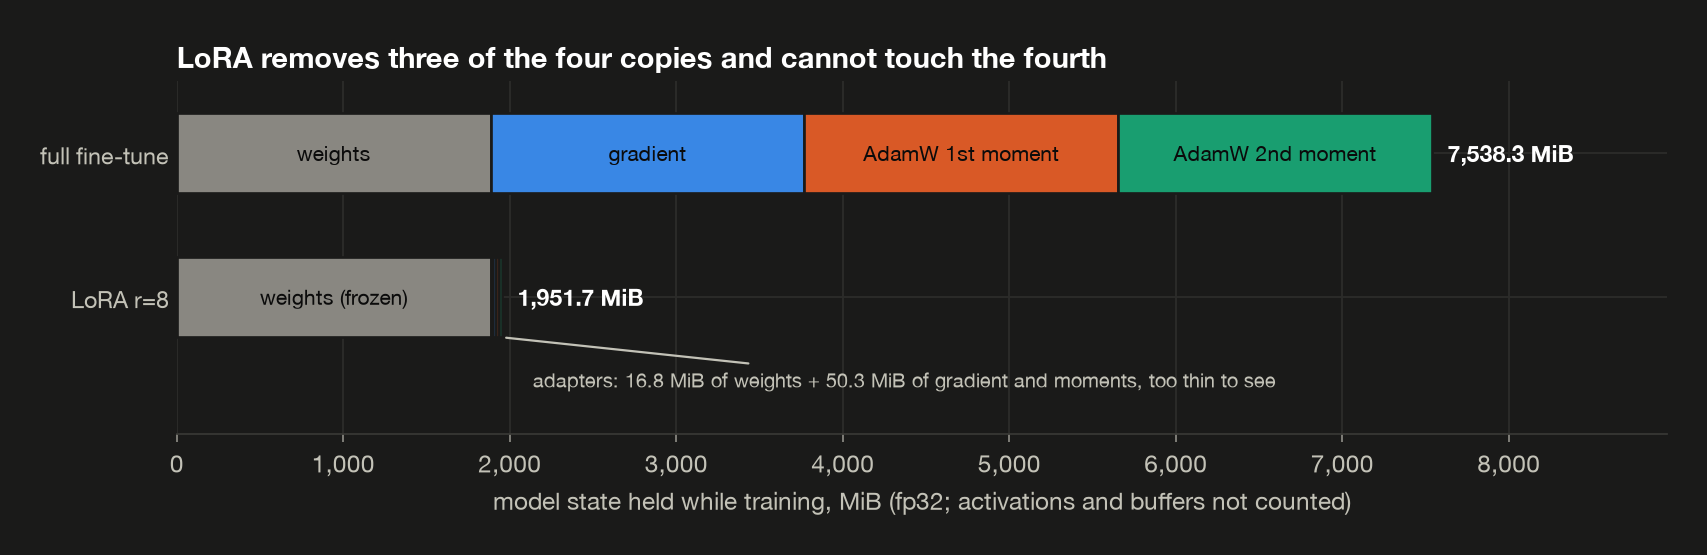
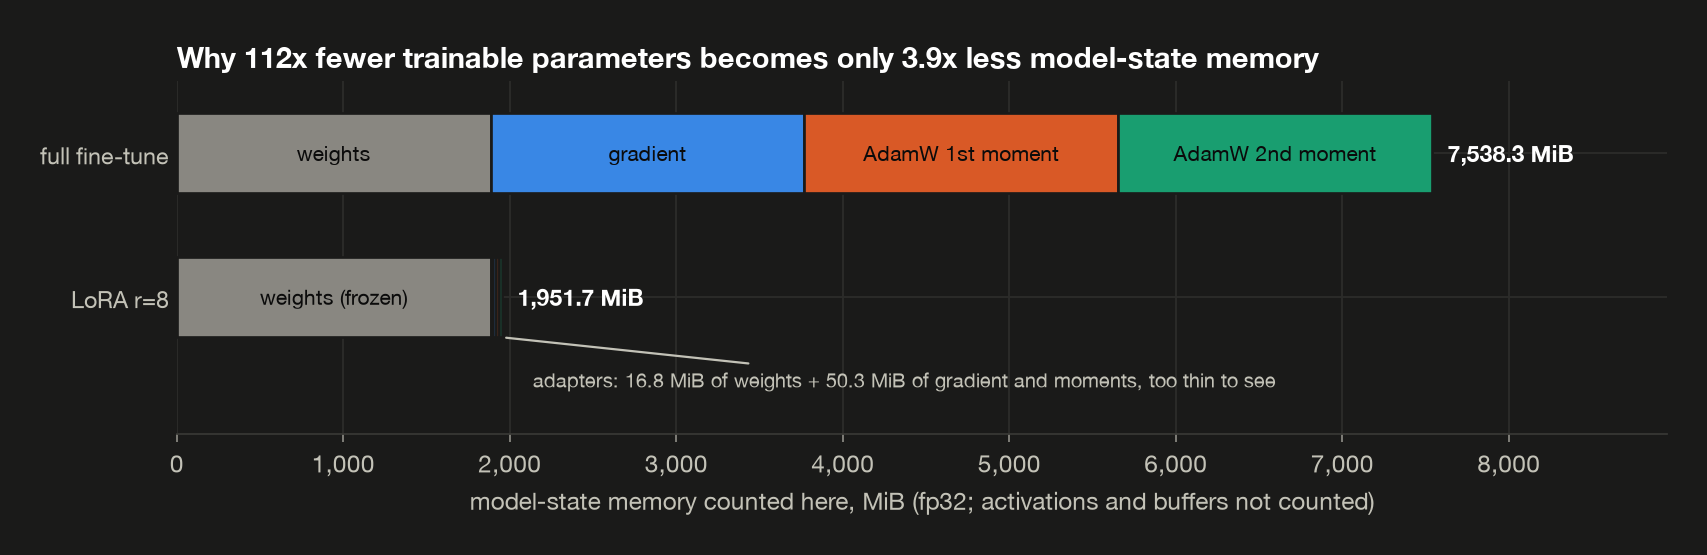
Post 6: §4's 4x is this accounting's limit, not LoRA's; the lr check says why it exists
Memory: opens on the 112x/3.9x distinction, derives 16 bytes -> 4 per frozen
parameter and the ratio 16N/(4N+16n) -> 4, then says what changes it
(precision, master copies, optimizer-state precision, quantized base,
sharding, offloading, activations). Mixed-precision 8x ceiling removed.
Four copies qualified as one model plus three blocks of training state.
Figure retitled. Learning-rate part is now 'Is the comparison fair?', with
the objection stated first, perplexity scoped to one probe passage, and no
general claim about forgetting.

Changed region(s): [[0.0931, 0.0613, 0.7762, 0.1225], [0.2794, 0.8883, 0.8073, 0.9189]]

diff --git a/_posts/2026-09-26-llm-architectures-lora.md b/_posts/2026-09-26-llm-architectures-lora.md
@@ -33,7 +33,7 @@ LoRA avoids most of that by never changing the original weights. It freezes them
 Three findings are about cost:
 
 - **The adapter is 0.89% of the model**: 4,399,104 parameters, **16.8 MiB** ([§3](#where-the-adapters-go)).
-- **But model-state memory falls 3.9×, not 112×.** The gradients and optimizer state go away; the frozen weights don't, and in fp32 they cap the saving at 4×. That counts weights, gradients and optimizer moments only; activations come on top ([§4](#where-memory-goes)).
+- **But model-state memory falls 3.9×, not 112×.** The gradients and optimizer state go away; the frozen weights don't, and under this post's fp32 accounting that keeps the saving below 4×. That counts weights, gradients and optimizer moments only; activations come on top ([§4](#where-memory-goes)).
 - **And a step gets about three times faster, not a hundred.** The backward pass still carries the gradient through every frozen weight, and most of the time saved is the optimizer's ([§4](#what-training-costs)).
 
 Three are about what rank buys:
@@ -385,14 +385,11 @@ Both runs learn the task: 40 of 40 facts recalled exactly. The loss gives more d
 
 #### Where LoRA actually saves memory {#where-memory-goes}
 
-The parameter counts make LoRA look as if it should need a tiny fraction of the memory: 494,032,768 trainable parameters against 4,399,104, **112× fewer**. That doesn't mean the run needs 112× less memory, because freezing a weight doesn't make it disappear. Every base weight is still multiplied in the forward pass, so it stays in memory either way. What freezing removes is the *training state* attached to each weight: its gradient and AdamW's two moments.
+**112× fewer trainable parameters, but only 3.9× less model-state memory.** That's the distinction worth remembering. LoRA trains just 0.89% as many parameters here, but that doesn't mean it needs 0.89% as much memory.
 
-![Model state held while training, drawn to scale: the full fine-tune's weights, gradient and two AdamW moments as four equal blocks, against LoRA's frozen weights plus an adapter sliver too thin to see](/assets/picture/2026-09-26-llm-architectures-lora/training-memory-light.png){: .light width="1000" height="325" }
-![Model state held while training, drawn to scale: the full fine-tune's weights, gradient and two AdamW moments as four equal blocks, against LoRA's frozen weights plus an adapter sliver too thin to see](/assets/picture/2026-09-26-llm-architectures-lora/training-memory-dark.png){: .dark width="1000" height="325" }
+The reason is that frozen weights don't disappear. Every base weight is still multiplied in the forward pass, so the whole base model stays in memory either way. What LoRA avoids for those frozen parameters is their *training state*: the gradient and AdamW's two moments.
 
-The figure draws the table's memory rows to scale. The full fine-tune holds four equal blocks, the weights and three blocks of training state. LoRA holds the same frozen weights, plus the adapters' own weights and their training state, too thin to see at this scale.
-
-In this demo the training state is 12 bytes per trainable parameter: a 4-byte gradient and two 4-byte moments, all in fp32. That's a property of how this demo trains, not a constant of AdamW. Mixed-precision training counts differently: it typically keeps 16-bit weights for the forward and backward passes beside a 32-bit master copy, 32-bit moments, and gradients in 16 or 32 bits, for 16 to 18 bytes per trainable parameter in all. Here's the fp32 arithmetic ([`what_training_costs`](https://github.com/bearbearyu1223/llm-architectures-refresher/blob/main/src/llmrefresher/demos/d06_lora.py) again):
+Under the deliberately simple accounting this demo uses, with every number in fp32, a parameter that's being trained holds four 4-byte numbers: its weight, its gradient, and AdamW's first and second moments, 16 bytes in all. Freeze it and only the 4-byte weight remains. Those are the four model-sized blocks [§1](#where-a-fine-tunes-cost-is) counted. The post calls them four copies for short, but only the first is the model; the other three are training state attached to it. The last 12 bytes are where the table's `x 12 bytes each` comes from ([`what_training_costs`](https://github.com/bearbearyu1223/llm-architectures-refresher/blob/main/src/llmrefresher/demos/d06_lora.py) again):
 
 ```text
   step                                           result
@@ -412,15 +409,24 @@ In this demo the training state is 12 bytes per trainable parameter: a 4-byte gr
   ratio of totals                                  3.9x        less
 ```
 
-These totals are **model state** only: weights, gradients and optimizer moments. They're deliberately not peak GPU memory. A real training run also holds the activations the backward pass needs (the in-between results the forward pass saves), temporary tensors from operations like softmax and matrix multiplication, and other overhead; Hugging Face's guide to [GPU memory usage](https://huggingface.co/docs/transformers/model_memory_anatomy) walks through each. Activations in particular grow with batch size and sequence length, and freezing the weights doesn't remove them, because the backward pass still has to run through every layer to reach the adapters ([below](#where-the-time-goes)). So these numbers explain where LoRA's saving comes from, and they aren't a GPU-sizing calculator.
+![Why 112x fewer trainable parameters becomes only 3.9x less model-state memory: drawn to scale, the full fine-tune's weights, gradient and two AdamW moments as four equal blocks, against LoRA's frozen weights plus an adapter sliver too thin to see](/assets/picture/2026-09-26-llm-architectures-lora/training-memory-light.png){: .light width="1000" height="325" }
+![Why 112x fewer trainable parameters becomes only 3.9x less model-state memory: drawn to scale, the full fine-tune's weights, gradient and two AdamW moments as four equal blocks, against LoRA's frozen weights plus an adapter sliver too thin to see](/assets/picture/2026-09-26-llm-architectures-lora/training-memory-dark.png){: .dark width="1000" height="325" }
 
-Within that accounting, 3.9× is close to the best LoRA can ever do. [§1](#where-a-fine-tunes-cost-is) counted four model-sized blocks. LoRA removes three of them almost entirely and can't touch the fourth, because the forward pass needs the weights. So for model state in fp32, **4× is the ceiling**, whatever the rank and whatever the model. In mixed precision the ceiling is nearer 8×, since a full fine-tune holds about 16 bytes per parameter and a frozen bf16 weight holds 2. Measuring 3.9× means the adapters are already down in the noise, and the next real saving has to come from making the weights themselves smaller, which is [post 7](#whats-next).
+The figure draws those rows to scale, and the factor of four is visible in it. The full fine-tune's bar is four equal blocks; LoRA keeps only the first, plus the adapters' own weights and training state, too thin to see. Activations, temporary tensors and framework overhead are left out of both bars, so neither is a peak GPU-memory measurement.
 
-So the headline isn't "LoRA uses 112× less memory". In this experiment LoRA makes 112× fewer parameters trainable, which removes almost all of the gradient and optimizer state for the base model. The frozen base weights are still there, and this accounting leaves out activations and other runtime memory. Under the fp32 accounting used here, **112× fewer trainable parameters becomes about 3.9× less model-state memory.** Read "LoRA trains 0.89% of the parameters" as "LoRA needs 0.89% of the memory" and you'd be off by a factor of about thirty on model state alone.
+Why is 3.9× so close to 4? Write $$N$$ for the number of base-model parameters and $$n$$ for the number of adapter parameters. The full fine-tune holds 16 bytes for each of the $$N$$; LoRA holds 4 bytes for each frozen base parameter and 16 for each adapter parameter. The ratio is
 
-#### Why the learning rates differ {#learning-rates}
+$$\frac{16N}{4N + 16n}$$
 
-The two runs also used different learning rates: `2e-4` for the adapters against `1e-5` for the full fine-tune. Each method got the rate it can use, which raises a fair question about whether the comparison is tilted, so the demo runs the full fine-tune a second time at the adapters' rate ([`the_learning_rate`](https://github.com/bearbearyu1223/llm-architectures-refresher/blob/main/src/llmrefresher/demos/d06_lora.py)):
+and as the adapters get small next to the base model, $$n/N$$ shrinks toward zero and the ratio approaches $$16/4 = 4$$. Here $$n/N$$ is 0.89%, which gives 3.86×, the table's 3.9×.
+
+That 4× is the limit of this accounting, not a universal limit of LoRA. These totals are model state only. A real run also holds the activations the backward pass needs (the in-between results the forward pass saves), temporary tensors from operations like softmax and matrix multiplication, and other overhead; Hugging Face's guide to [GPU memory usage](https://huggingface.co/docs/transformers/model_memory_anatomy) walks through each. Activations grow with batch size and sequence length, and freezing the weights doesn't remove them, because the backward pass still has to run through every layer to reach the adapters ([below](#where-the-time-goes)). The bytes per parameter also depend on the training setup. 16-bit working weights beside an fp32 master copy, gradients in 16 or 32 bits, optimizer moments kept in lower precision, a quantized base model, state sharded across GPUs or offloaded to CPU memory: each changes the arithmetic, and with it the ratio. So these numbers explain where LoRA's saving comes from, and they aren't a GPU-sizing calculator.
+
+The broader lesson is that parameter-efficient doesn't mean memory shrinks in proportion to the trainable parameter count. LoRA attacks the gradient and optimizer-state terms. Other parts of the bill can still be cut, among them optimizer precision, activations, sharding and offloading, but those are separate techniques, not the LoRA mechanism. And the largest term left, the frozen weights, needs a different tool: storing the base model itself at lower precision. That's quantization, and it's where [post 7](#whats-next) picks up.
+
+#### Is the comparison fair? {#learning-rates}
+
+There's one wrinkle left. The two runs used different learning rates: `2e-4` for the adapters against `1e-5` for the full fine-tune. That's intentional, because adapters and a full fine-tune don't generally share the same best learning rate, but it invites a reasonable objection: maybe LoRA only looks competitive because it got the more favorable rate. So the demo runs one more control, the full fine-tune again at the adapters' `2e-4` ([`the_learning_rate`](https://github.com/bearbearyu1223/llm-architectures-refresher/blob/main/src/llmrefresher/demos/d06_lora.py)):
 
 ```text
   full fine-tune, recall          lr 1e-05  lr 0.0002
@@ -431,9 +437,11 @@ The two runs also used different learning rates: `2e-4` for the adapters against
     vs untrained                     1.06x     3,120x
 ```
 
-The last two rows need a measure this post hasn't used yet. **Perplexity** is the one [post 4](/posts/llm-architectures-quantization/#perplexity-says-fine) judged quantization by: have the model predict every token of a fixed passage of ordinary prose, and ask how many tokens it is, on average, torn between. Lower is better. The passage is post 4's own, 550 tokens about harbours, photosynthesis and interest rates, so the base model's 20.87 is post 4's fp32 reference (the tables call the base model `untrained`, meaning before any fine-tuning), and nothing in it looks like a date or a made-up archive. What happens to it is a measure of what a fine-tune did to everything it wasn't trying to change.
+The last two rows use a measure this post hasn't needed yet. **Perplexity** is the one [post 4](/posts/llm-architectures-quantization/#perplexity-says-fine) judged quantization by: have the model predict every token of a fixed passage of ordinary prose, and ask how many tokens it is, on average, torn between. Lower is better. The passage is post 4's own, 550 tokens about harbours, photosynthesis and interest rates, so the base model's 20.87 is post 4's fp32 reference (the tables call the base model `untrained`, meaning before any fine-tuning), and nothing in it looks like a date or a made-up archive. Here it's a rough check on whether the model's original language-modeling behavior on that one passage survived fine-tuning. One passage can't measure general ability or knowledge, but it does show when a fine-tune has disturbed something it wasn't trying to change.
 
-At `1e-5` the full fine-tune learns all 40 facts, and the passage barely notices: 22.08. At `2e-4` it learns fewer of them, and the passage goes to 65,115: the model no longer predicts ordinary English. That run is also the least reproducible thing in this post. Three runs of the same program sent the passage to about 65 thousand, 3 million and 87 million, because a model knocked that far off course amplifies every rounding difference along the way. What never changed is that it ends up thousands of times worse than where it started, and learns the task less well while doing it. The adapter takes the same twenty-times-larger step without that damage, because what it's stepping on is a pair of small new matrices beside a frozen model, not the model itself. It doesn't leave the model untouched, though: on this task the rank-8 adapter moved the passage slightly *more* than the full fine-tune did at its own rate, +7.9% against +5.8% ([§6](#what-it-forgot)). What freezing buys is that a large learning rate stops being dangerous.
+The higher learning rate makes the full fine-tune worse on every row. At `1e-5` it gets all 40 facts exactly right and leaves the passage close to where it was: 22.08, 1.06× the base model's 20.87. At `2e-4` it does worse on its own task, 38 of 40, and the passage goes to 65,115, more than 3,000× the base model: it no longer predicts ordinary English. That run is also the least reproducible thing in this post. Three runs of the same program sent the passage to about 65 thousand, 3 million and 87 million, because a model knocked that far off course amplifies every rounding difference along the way. What never changed is that it ended up thousands of times worse than where it started, and learned the task less well while doing it.
+
+So giving the full fine-tune LoRA's learning rate wouldn't make the comparison fairer; it would hand the full fine-tune a setting that's bad for it. This small control can't support a general claim about catastrophic forgetting, a model losing what it already knew. What it shows is narrower: the same learning rate behaves very differently when it moves 494 million parameters than when it moves 4.4 million adapter parameters beside a frozen model. The adapter took the twenty-times-larger step without that damage. It didn't leave the model untouched, though: on this task the rank-8 adapter moved the passage slightly *more* than the full fine-tune did at its own rate, +7.9% against +5.8% ([§6](#what-it-forgot)).
 
 #### Where the time goes {#where-the-time-goes}
 
@@ -892,5 +900,5 @@ The terms and symbols this post leans on; anything not listed is defined where i
 - Dettmers et al., [QLoRA: Efficient Finetuning of Quantized LLMs](https://arxiv.org/abs/2305.14314) (2023) — post 7's subject, and the source of §3's target list: they report that "LoRA on all linear transformer block layers are required to match full finetuning performance", having found query and value alone insufficient on LLaMA 7B with Alpaca. §5 tests the choice on this post's model.
 - Sheng et al., [S-LoRA: Serving Thousands of Concurrent LoRA Adapters](https://arxiv.org/abs/2311.03285) (2023) — §8's problem solved at production scale. Adapters are kept unmerged and stored in host memory, fetched per query, with custom kernels for batching heterogeneous adapters; they report up to 4× the throughput of the baselines and "several orders of magnitude" more served adapters.
 - Kalajdzievski, [A Rank Stabilization Scaling Factor for LoRA](https://arxiv.org/abs/2312.03732) (2023) — argues the $\alpha/r$ scaling this post uses under-scales high ranks, and proposes $\alpha/\sqrt{r}$ instead. Relevant to §5's rank-32 row, which needed three times the steps to catch up.
-- Hugging Face, [GPU memory usage](https://huggingface.co/docs/transformers/model_memory_anatomy) (Transformers documentation) — backs §4's caveat that the memory table counts model state only. It breaks training memory into weights, optimizer states, gradients, forward activations, temporary tensors and other overhead, and gives mixed precision as 6 bytes of weights, 8 of Adam moments and 4 of fp32 gradient per parameter, the 18 at the top of §4's 16-to-18 range.
+- Hugging Face, [GPU memory usage](https://huggingface.co/docs/transformers/model_memory_anatomy) (Transformers documentation) — backs §4's caveat that the memory table counts model state only. It breaks training memory into weights, optimizer states, gradients, forward activations, temporary tensors and other overhead, and gives mixed precision as 6 bytes of weights, 8 of Adam moments and 4 of fp32 gradient per parameter, one of the setups §4 notes would change its arithmetic.
 - Qwen Team, [Qwen2.5 Technical Report](https://arxiv.org/abs/2412.15115) (2024) — the model fine-tuned throughout, the same checkpoint post 4 quantized.
